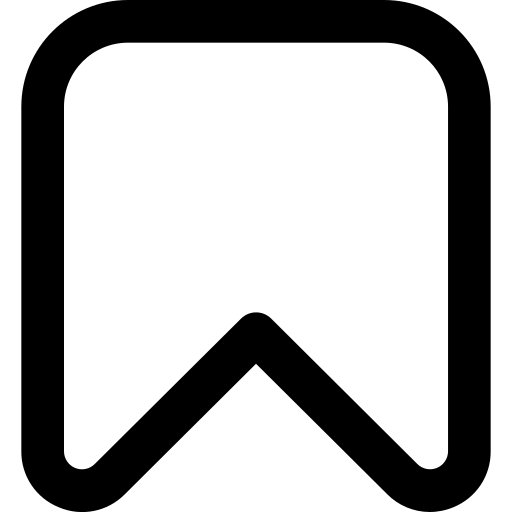
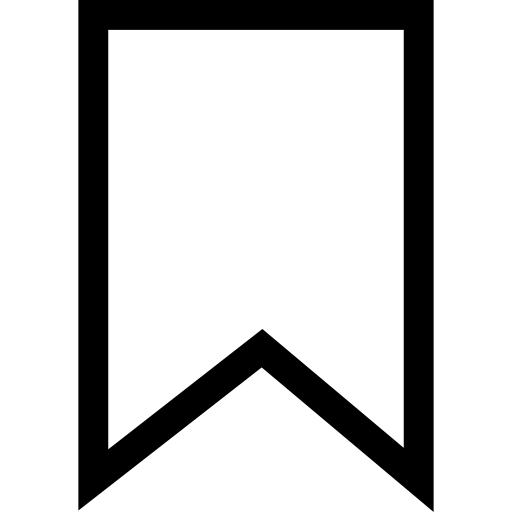
search et sauvgarde

diff --git a/renduIHM/src/style.css b/renduIHM/src/style.css
@@ -139,3 +139,52 @@
     -fx-background-color: #dddddd;
     -fx-background-radius: 10px;
 }
+
+/* ==============================< bouton sauvgarde et recherche >============================== */
+.save-btn {
+    -fx-background-color: transparent;
+    -fx-cursor: hand;
+    -fx-padding: 8px;
+}
+
+.save-btn .image-view {
+    -fx-fit-width: 32px;
+    -fx-fit-height: 32px;
+}
+/* ==============================< bouton recherche >============================== */
+.recherche-btn {
+    -fx-background-color: transparent;
+    -fx-cursor: hand;
+    -fx-padding: 6px;
+    -fx-fit-width: 20px;
+    -fx-fit-height: 20px;
+}
+.recherche-btn .image-view {
+    -fx-fit-width: 32px;
+    -fx-fit-height: 32px;
+}
+/* ==============================< bouton supprimer une sauvgarde>============================== */
+
+.delete-btn {
+    -fx-background-color: transparent;
+    -fx-cursor: hand;
+    -fx-padding: 6px;
+    -fx-fit-width: 20px;
+    -fx-fit-height: 20px;
+}
+
+.delete-btn .image-view {
+    -fx-fit-width: 20px;
+    -fx-fit-height: 20px;
+}
+
+/* ==============================< texte favoris >============================== */
+
+.favori-item {
+    -fx-font-size: 20px;
+    -fx-padding: 8px 0;
+}
+.historique-item {
+    -fx-font-size: 20px;
+    -fx-padding: 8px 0;
+}

diff --git a/renduIHM/src/Appli.java b/renduIHM/src/Appli.java
@@ -34,7 +34,16 @@ public class Appli extends Application {
     public void start(Stage stage) throws Exception {
 
         // ==============================< Racine >==============================
+                VBox favorisList = new VBox(); {
+                favorisList.setSpacing(10);
+                favorisList.setPadding(new Insets(15));
+                }
 
+                VBox historiqueList = new VBox(); {
+                historiqueList.setSpacing(10);
+                historiqueList.setPadding(new Insets(15));
+                }
+                
         BorderPane root = new BorderPane(); {
 
             // ==============================< Panneau de gauche >==============================
@@ -98,8 +107,8 @@ public class Appli extends Application {
                     });
                 }
 
-                
-                // ==========================< Bouton sauvegarde >==============================
+
+// ==========================< Bouton sauvegarde >==============================
 
                 Button saveBtn = new Button();
                 saveBtn.getStyleClass().add("save-btn"); 
@@ -113,17 +122,122 @@ public class Appli extends Application {
 
                 //on vérifie quelle image est affichée et on inverse quand on click dessus
                 saveBtn.setOnAction(event -> {
+                    if (startSearch.getText().isEmpty() || destinationSearch.getText().isEmpty()) {
+                        return;
+                    }
+
                     if (saveIcon.getImage() == imgEmpty) {
-                        saveIcon.setImage(imgFilled); 
+
+                        String texteTrajet = startSearch.getText() + "  →  " + destinationSearch.getText();
+
+                        // on vérifie si le trajet existe déjà avant de l'ajouter
+                        boolean dejaPresent = false;
+                        for (javafx.scene.Node n : favorisList.getChildren()) {
+                            HBox ligne = (HBox) n;
+                            Label l = (Label) ligne.getChildren().get(0);
+                            if (l.getText().equals(texteTrajet)) {
+                                dejaPresent = true;
+                            }
+                        }
+
+                        if (!dejaPresent) {
+
+                            Label trajet = new Label(texteTrajet);
+                            trajet.getStyleClass().add("favori-item");
+                            Button deleteBtn = new Button(); {
+                                deleteBtn.getStyleClass().add("delete-btn");
+                                
+                                Image imgDelete = new Image("file:renduIHM/img/signet1.png", 20, 20, true, true);
+                                ImageView deleteIcon = new ImageView(imgDelete);
+                                deleteBtn.setGraphic(deleteIcon);
+                            }
+
+                            HBox ligne = new HBox(trajet, deleteBtn);
+                            ligne.setSpacing(10);
+                            ligne.setAlignment(Pos.CENTER_LEFT);
+
+                            deleteBtn.setOnAction(e -> {
+                                favorisList.getChildren().remove(ligne);
+                            });
+
+                            favorisList.getChildren().add(ligne);
+                        }
+                        saveIcon.setImage(imgFilled);
                     } else {
-                        saveIcon.setImage(imgEmpty);  
+                        saveIcon.setImage(imgEmpty);
                     }
                 });
 
-                HBox saveBtnContainer = new HBox(saveBtn);
-                saveBtnContainer.setAlignment(Pos.CENTER_LEFT);
+                startSearch.textProperty().addListener((obs, oldVal, newVal) -> {
+                    saveIcon.setImage(imgEmpty);
+                });
 
-                // ===================================<                    >======================
+                destinationSearch.textProperty().addListener((obs, oldVal, newVal) -> {
+                    saveIcon.setImage(imgEmpty); 
+                });
+
+                // ==========================< Bouton recherche >==============================
+
+                Button rechercheBtn = new Button();
+                rechercheBtn.getStyleClass().add("recherche-btn");
+
+                Image imgRecherche = new Image("file:renduIHM/img/search.png", 28, 28, true, true);
+                ImageView rechercheIcon = new ImageView(imgRecherche);
+                rechercheBtn.setGraphic(rechercheIcon);
+
+                rechercheBtn.setOnAction(event -> {
+                    if (startSearch.getText().isEmpty() || destinationSearch.getText().isEmpty()) {
+                        return;
+                    }
+
+                    String texteTrajet = startSearch.getText() + "  →  " + destinationSearch.getText();
+
+                    // on cherche si le trajet existe déjà dans l'historique
+                    HBox ligneExistante = null;
+                    for (javafx.scene.Node n : historiqueList.getChildren()) {
+                        HBox ligne = (HBox) n;
+                        Label l = (Label) ligne.getChildren().get(0);
+                        if (l.getText().equals(texteTrajet)) {
+                            ligneExistante = ligne;
+                        }
+                    }
+
+                    // si présent, on l'enlève pour le remettre en haut après
+                    if (ligneExistante != null) {
+                        historiqueList.getChildren().remove(ligneExistante);
+                    } else {
+                        Label trajet = new Label(texteTrajet);
+                        trajet.getStyleClass().add("historique-item");
+
+                        Button deleteBtn = new Button();
+                        deleteBtn.getStyleClass().add("delete-btn");
+
+                        Image imgDelete = new Image("file:renduIHM/img/supprimer.png", 20, 20, true, true);
+                        ImageView deleteIcon = new ImageView(imgDelete);
+                        deleteBtn.setGraphic(deleteIcon);
+
+                        HBox ligne = new HBox(trajet, deleteBtn);
+                        ligne.setSpacing(10);
+                        ligne.setAlignment(Pos.CENTER_LEFT);
+
+                        deleteBtn.setOnAction(e -> {
+                            historiqueList.getChildren().remove(ligne);
+                        });
+
+                        ligneExistante = ligne;
+                    }
+                    // on remet la dernière recherche en haut
+                    historiqueList.getChildren().add(0, ligneExistante);
+                });
+
+                
+
+                javafx.scene.layout.Region spacer = new javafx.scene.layout.Region();
+                HBox.setHgrow(spacer, javafx.scene.layout.Priority.ALWAYS);
+
+                HBox saveBtnContainer = new HBox(saveBtn, spacer, rechercheBtn);
+                saveBtnContainer.setAlignment(Pos.CENTER);
+                
                 
                 // Menu pour choisir les modalités de transport à afficher
                 HBox filterBar = new HBox(); {
@@ -231,6 +345,7 @@ public class Appli extends Application {
                     startSearch,
                     switchArrows,
                     destinationSearch,
+                    saveBtnContainer,
                     filterBar
                 );
             }
@@ -268,7 +383,7 @@ public class Appli extends Application {
                 Tab favoris = new Tab(); {
 
                     favoris.setClosable(false);
-                    // favoris.setContent();
+                    favoris.setContent(favorisList);
 
                     ImageView favoritesIcon = new ImageView(
                         new Image(
@@ -283,7 +398,7 @@ public class Appli extends Application {
                 Tab historique = new Tab(); {
 
                     historique.setClosable(false);
-                    // historique.setContent();
+                    historique.setContent(historiqueList);
 
                     ImageView historyIcon = new ImageView(
                         new Image(
